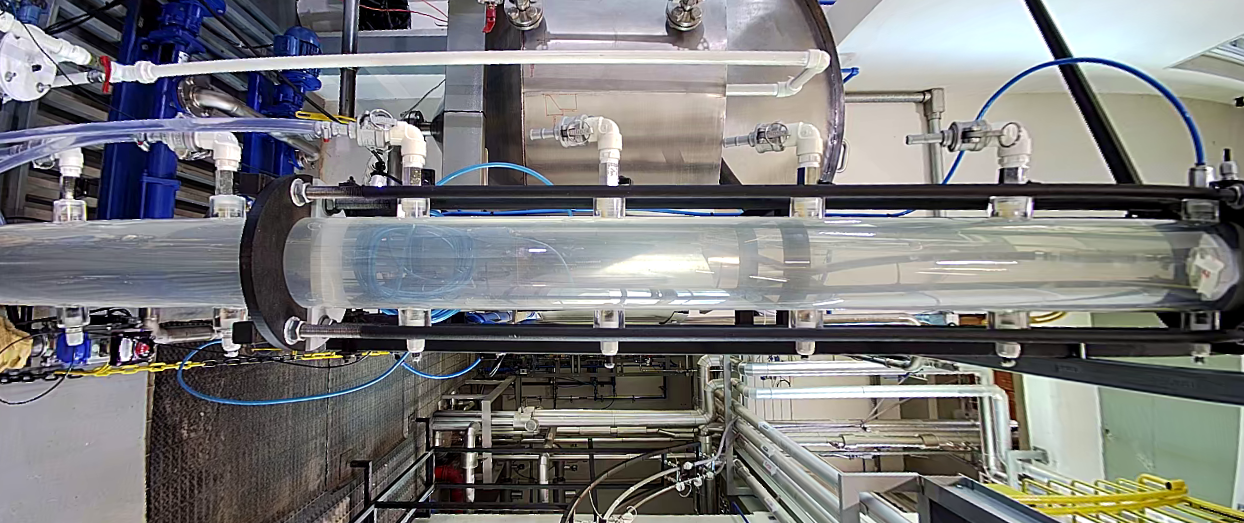
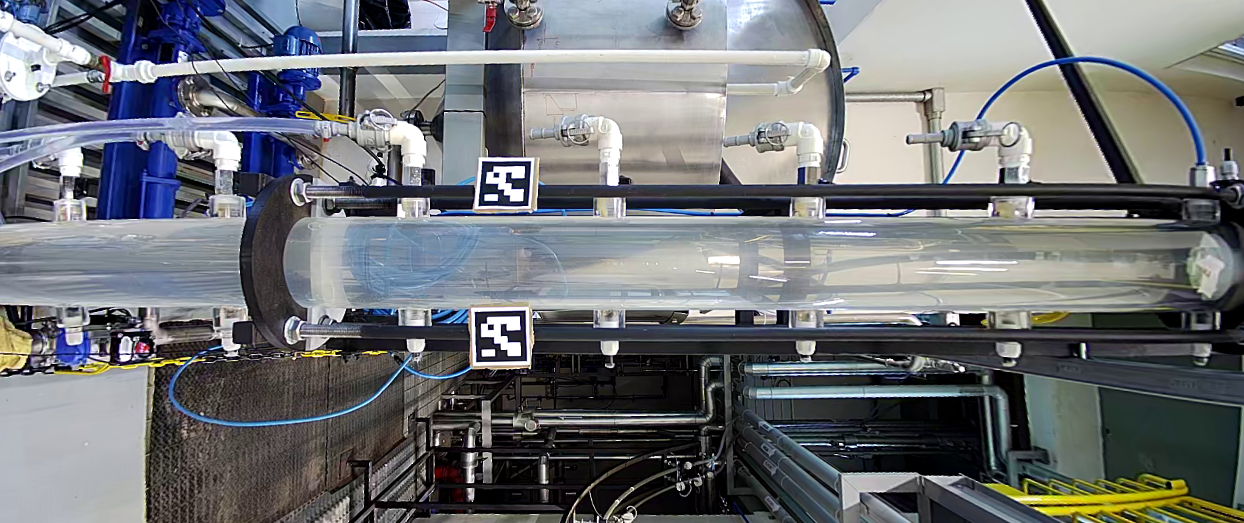
atualizacoes

diff --git a/PyCodes/aruco_detectar.py b/PyCodes/aruco_detectar.py
@@ -1,0 +1,47 @@
+import cv2 as cv
+import numpy as np
+from utils import get_current_directory, confirma_leitura_imagens, detectar_cantos_arucos, desenha_marcadores
+
+img1_path = r"C:\Users\Adquiri\Documents\Camera_Batata\StitchingImage\caliResult_Camera1.png"
+img2_path = r"C:\Users\Adquiri\Documents\Camera_Batata\StitchingImage\caliResult_Camera2.png"
+
+img1_path = img1_path.replace('\\', '/')
+img2_path = img2_path.replace('\\', '/')
+
+image1, image2 = confirma_leitura_imagens(img1_path, img2_path)
+
+# Configurar o dicionário e os parâmetros ArUco
+
+corners1, ids1, corners2, ids2 = detectar_cantos_arucos(image1, image2)
+
+# desenha_marcadores(image1, corners1, ids1)
+# desenha_marcadores(image2, corners2, ids2)
+
+# Pegar o centro do primeiro marcador encontrado em cada imagem
+center1 = np.mean(corners1[0][0], axis=0)
+center2 = np.mean(corners2[0][0], axis=0)
+
+# Calcular o deslocamento entre as duas imagens
+image2 = image2[:, int(center2[0]):]
+
+# Dimensões das imagens
+height1, width1, _ = image1.shape
+height2, width2, _ = image2.shape
+
+# Calcular a largura da nova imagem
+new_width = int(center1[0]) + (width1-int(center2[0]))
+new_height = max(height1, height2)
+
+# Criar a nova imagem (panorama)
+panorama = np.zeros((new_height, new_width, 3), dtype=np.uint8)
+
+# Colocar a primeira imagem
+panorama[:height1, :width1] = image1
+
+# Colocar a segunda imagem com base no deslocamento calculado
+panorama[:height2, int(center1[0]):] = image2
+
+# Salvar ou exibir o resultado
+cv.imshow('Panorama', panorama)
+cv.waitKey(0)
+cv.destroyAllWindows()

diff --git a/PyCodes/getImage.py b/PyCodes/getImage.py
@@ -88,7 +88,6 @@ def getImage(ip: str, choice: str) -> None:
         tempo_inicio = time.time()
         ret, img = cap.read()
         
-
         if not ret:
             print("Erro ao conectar ao fluxo RTSP. Tentando reconectar...")
             cap.release()
@@ -100,10 +99,6 @@ def getImage(ip: str, choice: str) -> None:
         tempo_passado = time.time() - tempo_inicio
         
         tempos.append(tempo_passado)
-        
-        # if tempo_passado > 50:
-        #     print("Buffer pode estar cheio.")
-        #     cap.grab()
         
         if frames % 10 == 0: # Mostrar frame a cada 10 frames   
             cv.imshow('RTSP Frame', img)
@@ -125,7 +120,6 @@ def getImage(ip: str, choice: str) -> None:
             num += 1
             
         if contador_de_frames >= frames_ate_limpar:
-            print('Limpando Buffer') 
             for _ in range(5):
                 cap.grab()
             contador_de_frames = 0
@@ -138,7 +132,8 @@ def getImage(ip: str, choice: str) -> None:
     cap.release()
     cv.destroyAllWindows()
     
-   
+    
+def plotar_grafico_tempos(tempos: list) -> None:
     plt.plot(tempos, marker='o', color='b', linestyle='-', markersize=8, markerfacecolor='red', markeredgewidth=2, markeredgecolor='red')
     plt.title("Gráfico dos tempos entre cada leitura de frame")
     plt.xlabel("Frames")

diff --git a/PyCodes/remover_distorcao.py b/PyCodes/remover_distorcao.py
@@ -2,12 +2,11 @@ import cv2 as cv
 import os
 from utils import get_data_pkl, remover_distorcao, plotar_duas_imagens
 
-
-caminho_para_foto = 'C:/Users/Adquiri/Downloads/img0_Camera1.png'
-
+caminho_para_foto = r'C:\Users\Adquiri\Documents\Camera_Batata\img0_Camera1_aruco.png'
 current_directory = os.getcwd().replace('\\', '/')
 
-choice_camera = str(input("Qual câmera você capturou a imagem?: [1/2]\n")).strip()
+index_choice_camera = caminho_para_foto.index('img')+ len('img') + 2 + len('Camera')
+choice_camera = caminho_para_foto[index_choice_camera]
 #number = str(input("Qual o número da foto?\n")).strip()
 
 cameraMatrix = f'/calibracao_camera1/cameraMatrix.pkl'

diff --git a/PyCodes/utils.py b/PyCodes/utils.py
@@ -356,3 +356,10 @@ def desenha_marcadores(image, corners, ids):
     cv.imshow("Imagem com os marcadores ArUcos detectados", image)
     cv.waitKey(0)
     cv.destroyAllWindows()
+    
+    try:
+        choice = str(input("Gostaria de salvar a imagem com os marcadores detectados? [s/n]\n")).upper().strip()
+        if choice == "S":
+            cv.imwrite('img_arucos_detectados.png', image)
+    except Exception as e:
+        print("Ocorreu o erro: ", e)
